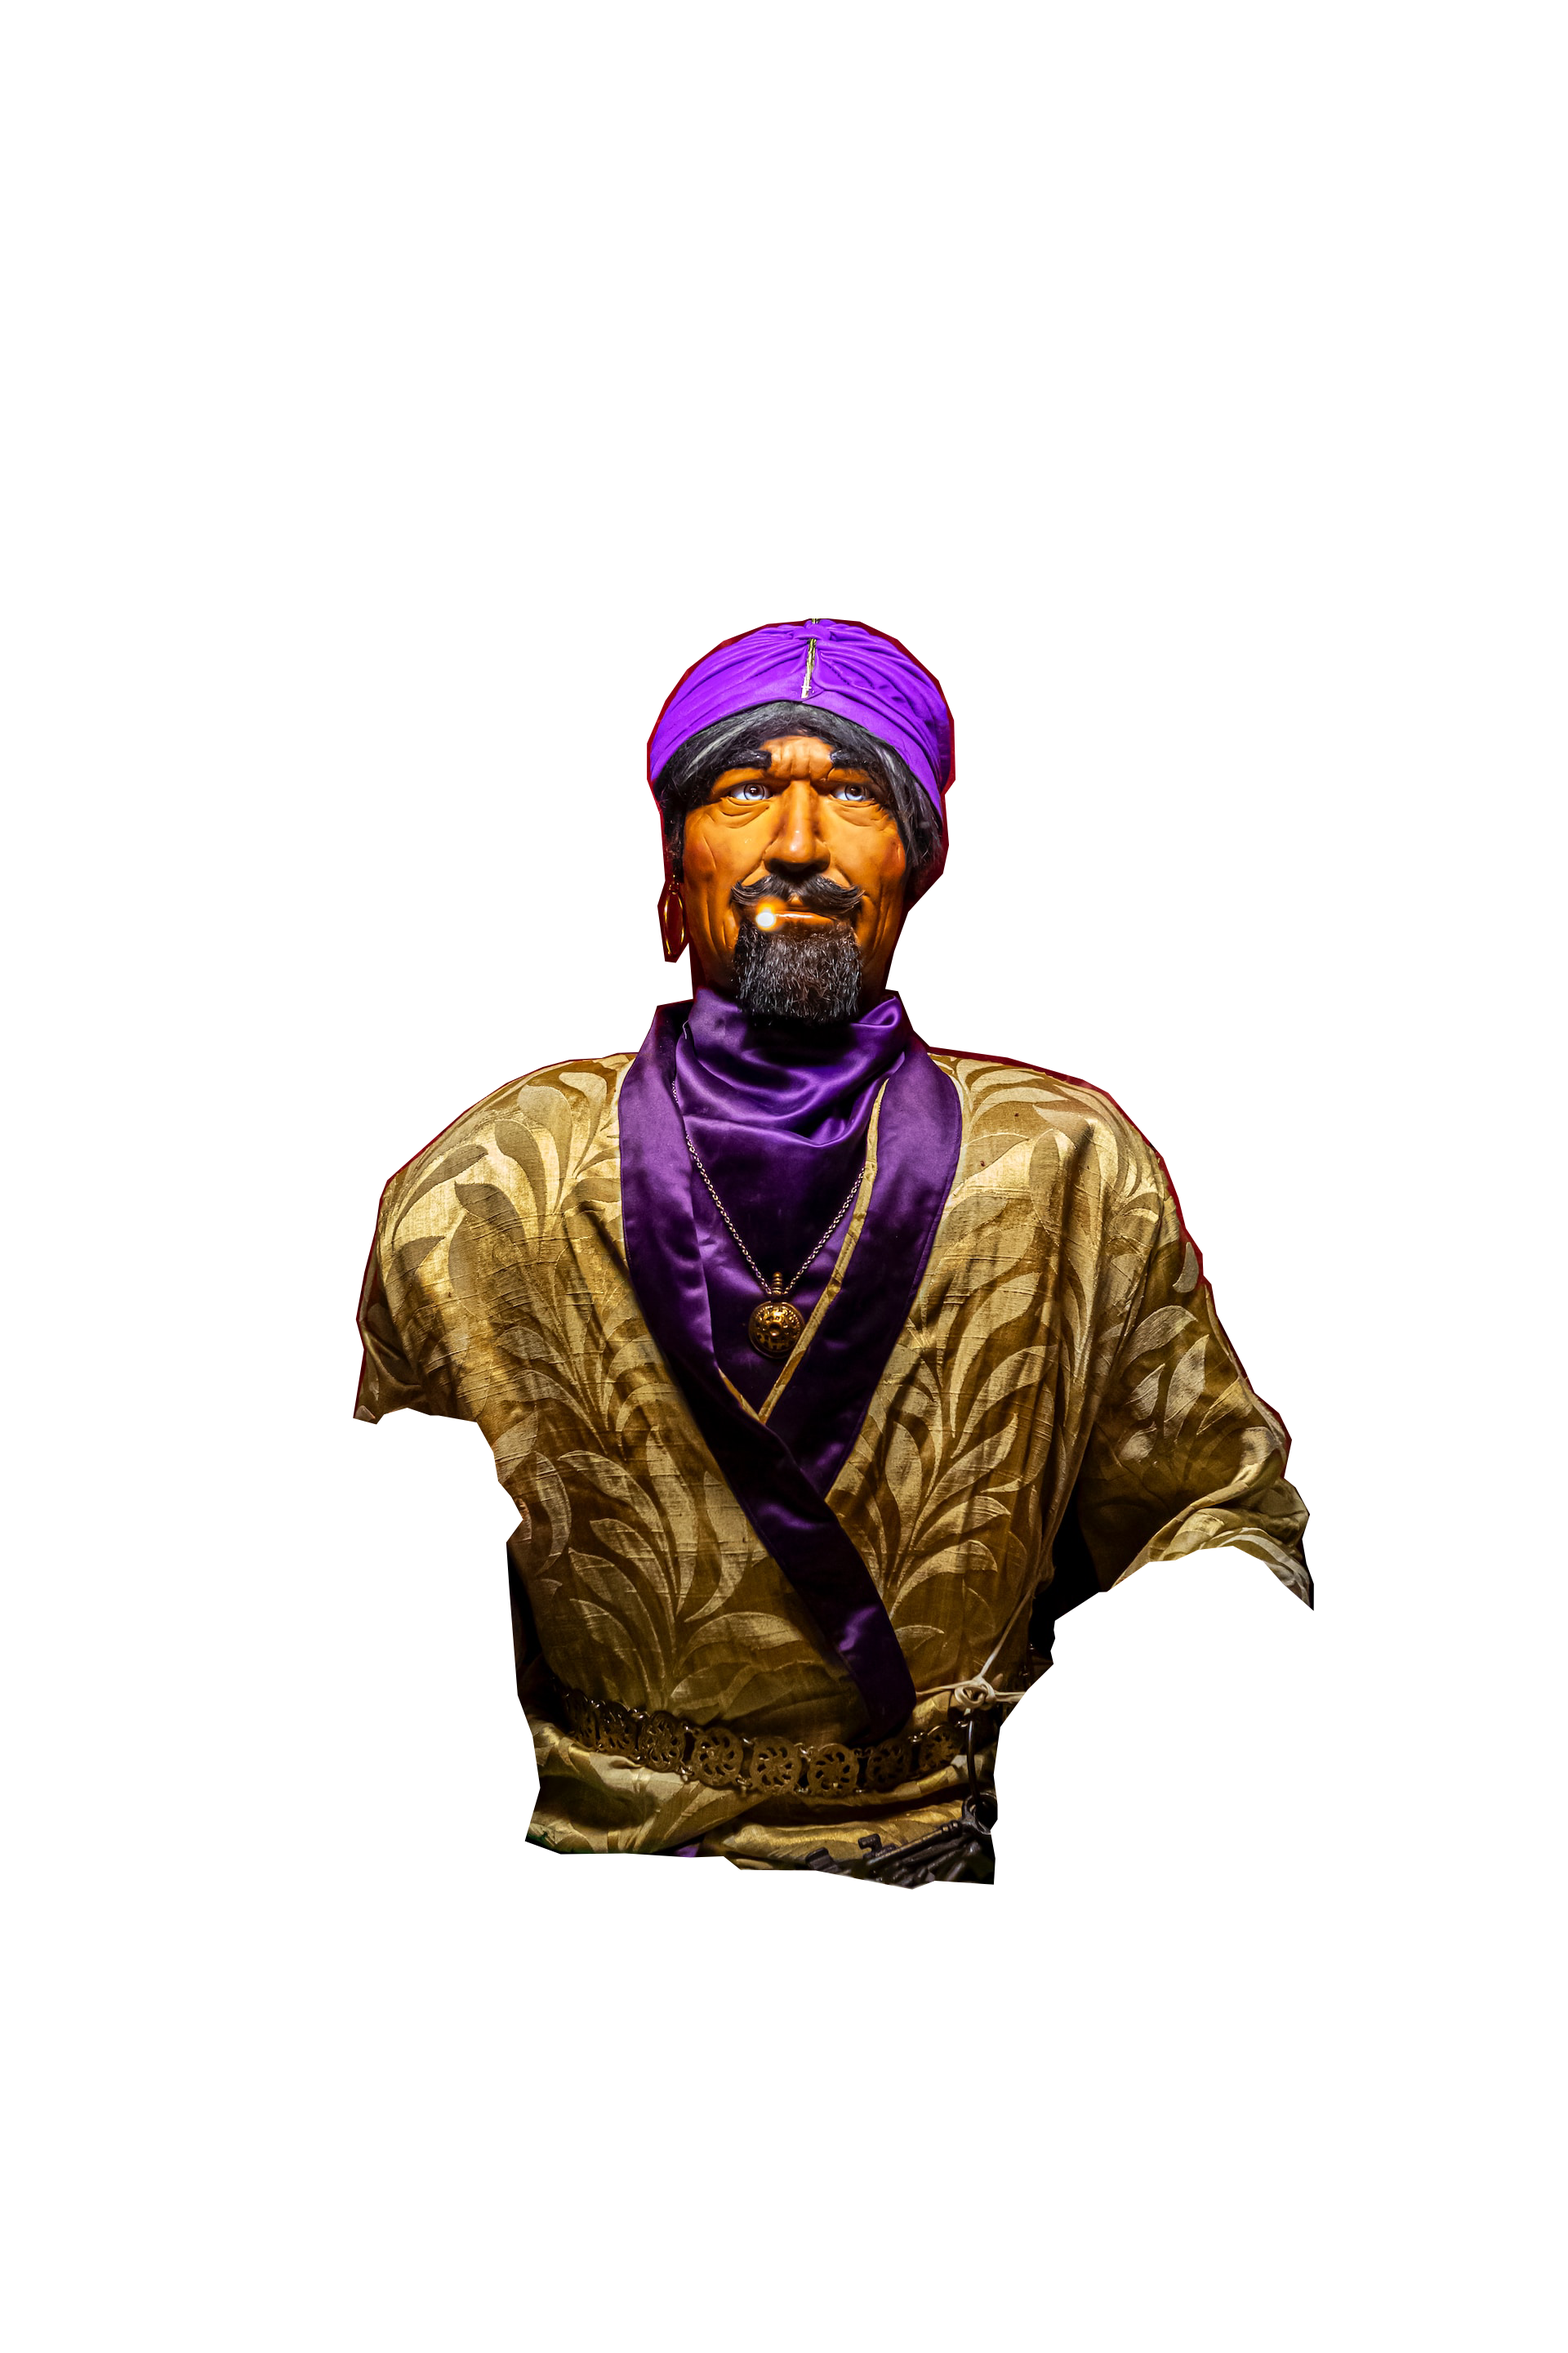
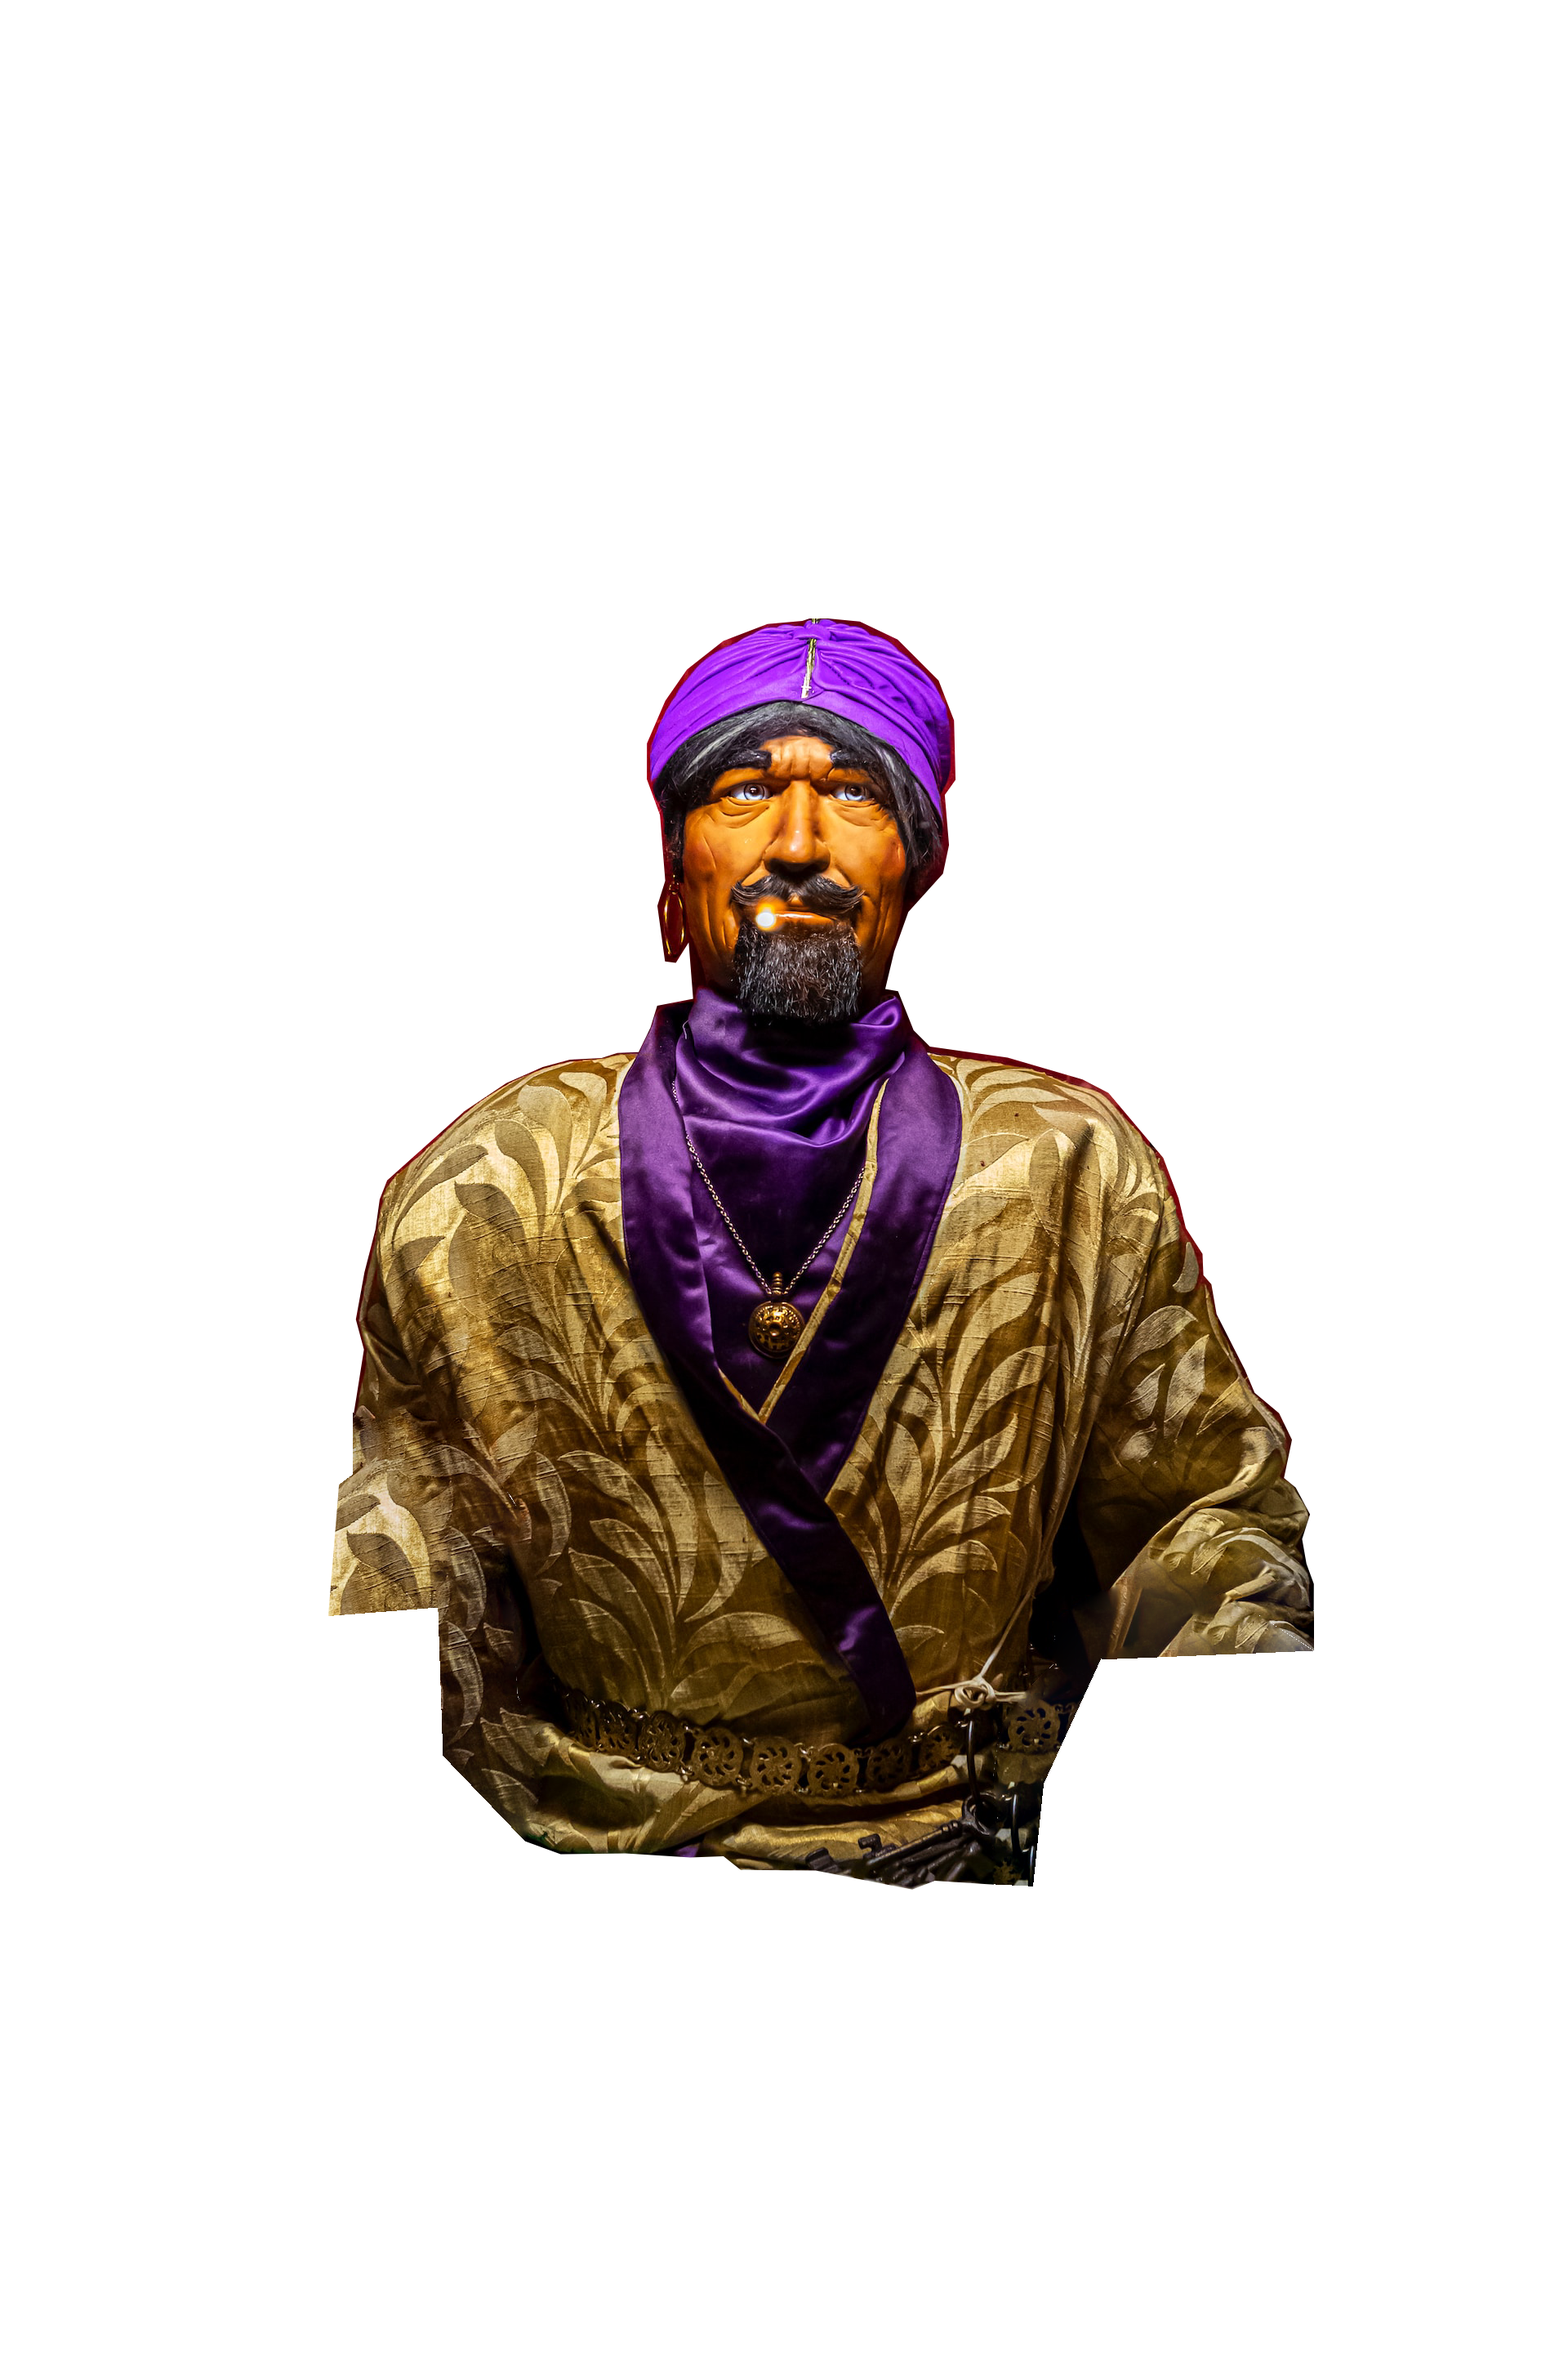
2d zoltar perspective compelte

Changed region(s): [[0.1875, 0.5938, 0.3438, 0.7812], [0.625, 0.6562, 0.8438, 0.8125]]

diff --git a/assets/scripts/2d/main.js b/assets/scripts/2d/main.js
@@ -1,17 +1,6 @@
 import { produceRandomNumbers, chooseOptionFromArr } from '../fortunes.js';
 import { convertArrToReadableString } from '../ticket.js';
 
-// const fortuneOutput = document.querySelector('#fortune-output');
-// const ticket = document.querySelector('#ticket');
-// const zoltar = document.querySelector('#zoltar-image');
-// const ticketX = document.getElementById('closeTicket');
-// const fortuneNumber = document.querySelector('#fortune-number');
-// const splash = document.querySelector('#splash-screen');
-// const volumeOn = document.querySelector('#volumeOn');
-// const volumeOff = document.querySelector('#volumeOff');
-const eightball = document.querySelector('#eight-ball-image');
-const volumeControl = document.querySelector('.volume-controls');
-
 // const LOADING_DELAY = 2000;
 const LOADING_DELAY = 500;
 const OPEN = 1;
@@ -184,17 +173,6 @@ document.addEventListener('keydown', (event) => {
 	}
 });
 
-volumeControl.addEventListener('click', () => {
-	toggleAudio();
-});
-
-/**
- * Clicking on the 8-ball goes to 8-ball project
- */
-eightball.addEventListener('click', () => {
-	window.location = ('https://cse110-sp23-group23.github.io/cse110-sp23-group23/source/8ball/');
-});
-
 /**
  * Gets Background audio
  * Gets thunderAudio
@@ -241,12 +219,16 @@ function go() {
 	domContent.volumeOn.style.display = 'inline';
 } /* go */
 
+function openEightBall() {
+	window.location = ('https://cse110-sp23-group23.github.io/cse110-sp23-group23/source/8ball/');
+}
+
 function init() {
 	domContent = {
 		body: document.querySelector('body'),
 		fortuneOutput: document.querySelector('#fortune-output'),
 		ticket: document.querySelector('#mainTicket'),
-		zoltar: document.querySelector('#zoltar-image'),
+		zoltar: document.querySelector('#eightBallContainer'),
 		ticketX: document.getElementById('closeTicket'),
 		fortuneNumber: document.querySelector('#fortune-number'),
 		volumeControl: document.querySelector('.volume-controls'),
@@ -257,10 +239,13 @@ function init() {
 		storeTicketPrompt: document.querySelector('#storeTicketPrompt'),
 		storeButton: document.querySelectorAll('.storeButton'),
 		ticketImage: document.querySelector('.ticket-header-image'),
+		eightball: document.querySelector('#eight-ball-image'),
+
 	};
 	window.addEventListener('mousedown' || 'keydown', go);
 	window.addEventListener('keydown', go);
 	setTimeout(() => { domContent.loadedMessage.innerText = '[ press anywhere to continue ]'; }, LOADING_DELAY);
+	domContent.eightball.addEventListener('click', openEightBall);
 	domContent.volumeControl.addEventListener('click', toggleAudio);
 	domContent.zoltar.addEventListener('click', zoltarHandler);
 	domContent.ticketX.addEventListener('click', () => { ticketHandler(CLOSE); });

diff --git a/twodee.html b/twodee.html
@@ -28,11 +28,34 @@
 	<!-- Mr Zoltar -->
 	<section class="container">
 		<div class="vignette"></div>
-		<img id="zoltar-left-hand" class="camera" data-speedx="0.17" data-speedy="0.27" data-rotation="0.7" alt="Zoltars Face" src="assets/images/2d/zoltar-left-hand.png">
-		<img id="zoltar-body" class="camera" data-speedx="0.15" data-speedy="0.26" data-rotation="0.7" alt="Zoltars Face" src="assets/images/2d/zoltar-body.png">
-		<img id="zoltar-image" class="camera" data-speedx="0.13" data-speedy="0.25" data-rotation="0.7" alt="Image of Zoltar" src="assets/images/2d/zoltar-box.png">
-		<img id="background-img" class="camera" data-speedx="0.1" data-speedy="0.2" data-rotation="0" alt="Background for Zoltar" src="assets/images/2d/2d-wood_planks.jpg">
-		<img id="eight-ball-image" class="camera" data-speedx="0.33" data-speedy="0.50" data-rotation="0.7" alt="Image of Zoltar's Eight Ball" src="assets/images/eightballicon.png">
+		<div id="eightBallContainer" class="camera"
+		data-speedx="0.18" data-speedy="0.3" data-rotation="0.8" >
+			<img id="eight-ball-image" alt="Image of Zoltar's Eight Ball" src="assets/images/eightballicon.png">
+		</div>
+		<img id="zoltar-frame" class="camera zoltar-image" 
+		data-speedx="0.18" data-speedy="0.3" data-rotation="0.8" 
+		alt="Zoltar Box frame" src="assets/images/2d/zoltar-frame.png">
+
+		<img id="zoltar-hands" class="camera zoltar-image"
+		data-speedx="0.18" data-speedy="0.29" data-rotation="0.8"
+		alt="Zoltars Hands" src="assets/images/2d/zoltar-hands.png">
+
+
+		<img id="zoltar-body" class="camera zoltar-image" 
+		data-speedx="0.16" data-speedy="0.27" data-rotation="0.8" 
+		alt="Zoltars Body" src="assets/images/2d/zoltar-body.png">
+
+		<img id="zoltar-lamp" class="camera zoltar-image" 
+		data-speedx="0.14" data-speedy="0.25" data-rotation="0.8" 
+		alt="Zoltar Box Lamps" src="assets/images/2d/zoltar-lamp.png">
+
+		<img id="zoltar-box" class="camera zoltar-image" 
+		data-speedx="0.13" data-speedy="0.25" data-rotation="0.8" 
+		alt="Zoltars Box" src="assets/images/2d/zoltar-box.png">
+
+		<img id="background-img" class="camera zoltar-image" 
+		data-speedx="0.1" data-speedy="0.2" data-rotation="0.1" 
+		alt="Wooden Background wall" src="assets/images/2d/2d-wood_planks.jpg">
 	</section>
 
 	<!-- Main ticket fortune when clicking on zoltar-->
@@ -58,8 +81,6 @@
 		<img id="volumeOff" loading="lazy" src="assets/images/2d/volume-off-icon.png" height="100%">
 	</section>
 
-
-	<script type="module" src="./assets/scripts/2d/main.js"></script>
 	<!-- Ticket history interface and controls-->
 	<section>
 		<span class="closeTicket" id="closeHistory" style="display: none">&times;</span>

diff --git a/assets/styles/twodee.css b/assets/styles/twodee.css
@@ -1,5 +1,3 @@
-/* TODO: need to refactor all of this */
-
 @font-face {
 	font-family: Cinzel;
 	src: url('../fonts/CinzelDecorative-Regular.ttf');
@@ -28,28 +26,65 @@ body {
 	pointer-events: none;
 }
 
-#zoltar-body {
-	pointer-events: none;
-	z-index: 3;
-	top: 55%;
-	left: 50%;
+#eightBallContainer {
+	opacity: 100%;
+	z-index: 7;
 	height: 140vh;
-}
-
-#zoltar-left-hand {
-	pointer-events: none;
-	z-index: 4;
-	top: 55%;
+	width: calc(2/3 * 140vh);
+	position: absolute;
 	left: 50%;
-	height: 140vh;
-}
-
-#zoltar-image {
-	height: 140vh;
-	top: 55%;
-	left: 50%;
-	z-index: 2;
+	top: 50%;
 	cursor: url('../images/customcursorclick.png'), pointer;
+}
+
+#eight-ball-image {
+    z-index: 7;
+	position: relative;
+	height: 14%;
+	left: 25.5%;
+	top: 80%;
+    opacity: 10%;
+	transform: translate(-50%, -50%);
+	transition: 1s;
+}
+
+#eight-ball-image:hover {
+    opacity: 100%;
+}
+
+
+.zoltar-image {
+	pointer-events: none;
+	top: 55%;
+	left: 50%;
+	height: 140vh;
+}
+
+#zoltar-body {
+	z-index: 3;
+}
+#zoltar-roof {
+	z-index: 5;
+}
+
+#zoltar-frame {
+	z-index: 6;
+}
+
+#zoltar-lamp {
+	z-index: 4;
+}
+
+#zoltar-title {
+	z-index: 4;
+}
+
+#zoltar-hands {
+	z-index: 4;
+}
+
+#zoltar-box {
+	z-index: 2;
 }
 
 #background-img {
@@ -66,23 +101,6 @@ body {
 	position: absolute;
 	transition: 0.45s cubic-bezier(0.2, 0.49, 0.32, 0.99);
 	transform: translate(-50%, -50%);
-}
-
-#eight-ball-image {
-    z-index: 4;
-    position: absolute;
-    margin-left: 31%;
-    margin-top: 37%;
-    /* margin-left: 580px;
-    margin-bottom: 700px; */
-    scale: 40%;
-    opacity: 0%;
-    cursor: url('../images/eightballcursor.png'), pointer;
-
-}
-
-#eight-ball-image:hover {
-    opacity: 100%;
 }
 
 #wood-background {
@@ -115,7 +133,7 @@ body {
 }
 
 .mainTicket:hover {
-	transform: translate(-50%, -50%) rotateX(0deg) rotateY(0deg);
+	transform: translate(-50%, -50%) rotateX(5deg) rotateY(5deg);
 }
 
 .savedTicket {
@@ -194,7 +212,7 @@ body {
 
 .slide-in {
 	transition: 0.5s;
-	top: 150%;
+	top: 160%;
 }
 
 .visible {

diff --git a/assets/scripts/2d/camera.js b/assets/scripts/2d/camera.js
@@ -6,15 +6,16 @@ let cameraEl;
 let xValue = 0;
 let yValue = 0;
 let rotateDegree = 0;
+let frame = 0;
 
 /**
  * Event Listener that creates a 3D like effect for the 2d Zoltar.
  */
 window.addEventListener('mousemove', (e) => {
 	// Pauses Zoltar's movements if any asset if displayed on screen. Eg. ticket, history
-	if (isHistoryOnScreen() || isTicketOnScreen()) {
-		return;
-	}
+	frame++;
+	if (frame % 2 === 0) return;
+	if (isHistoryOnScreen() || isTicketOnScreen()) return;
 
 	xValue = e.clientX - window.innerWidth / 2;
 	yValue = e.clientY - window.innerHeight / 2;
